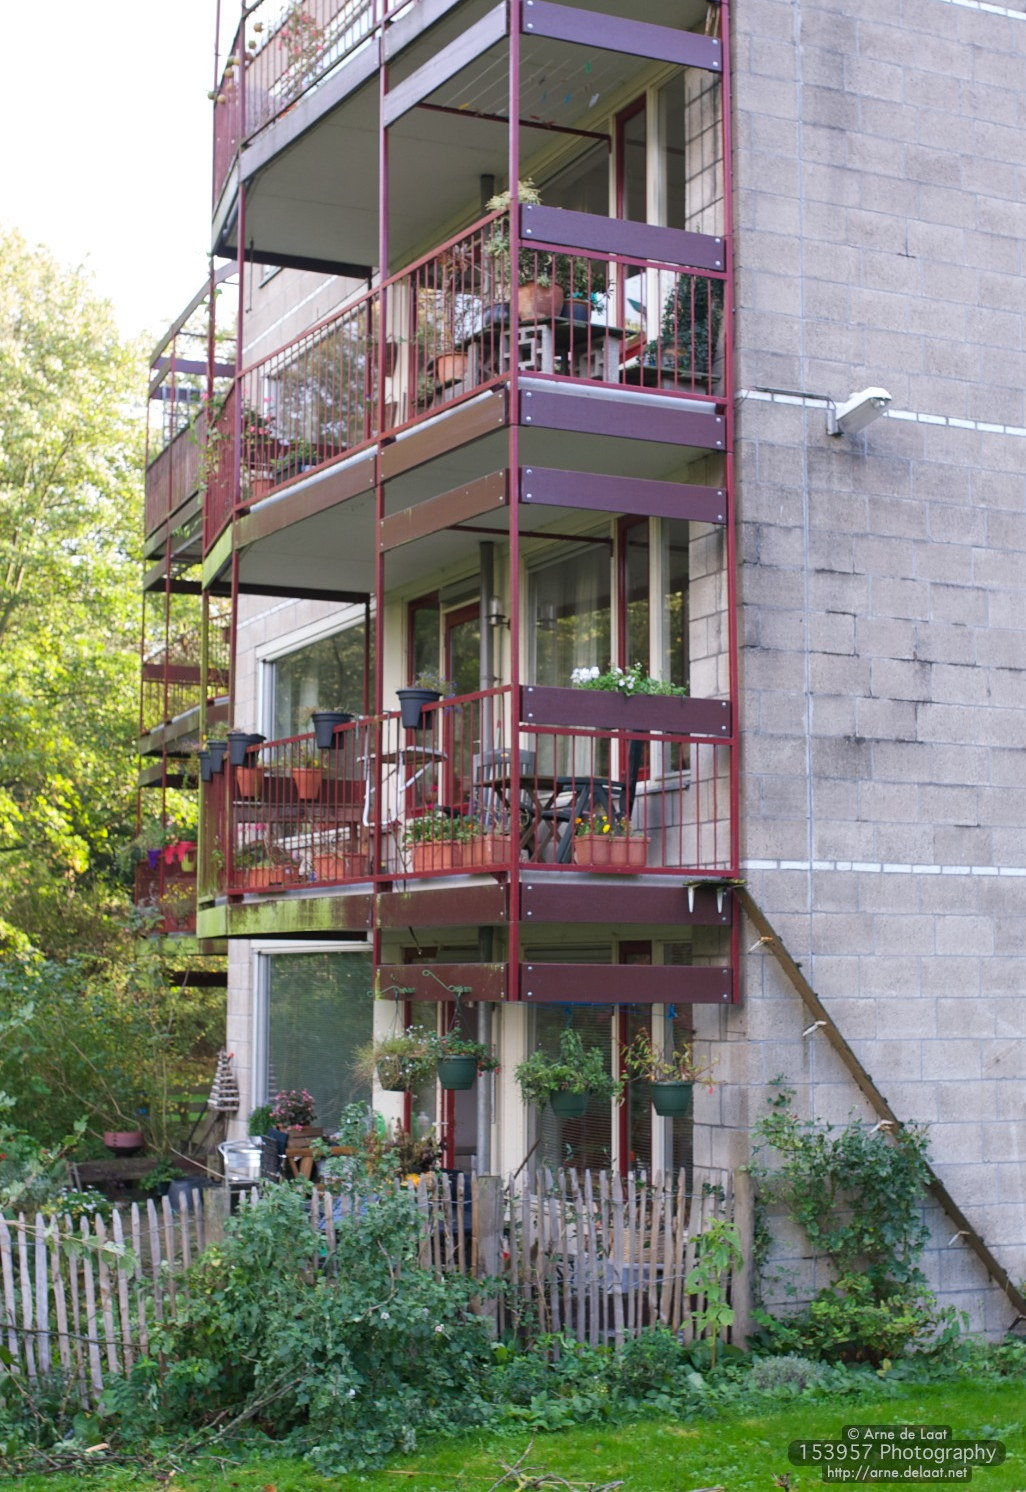
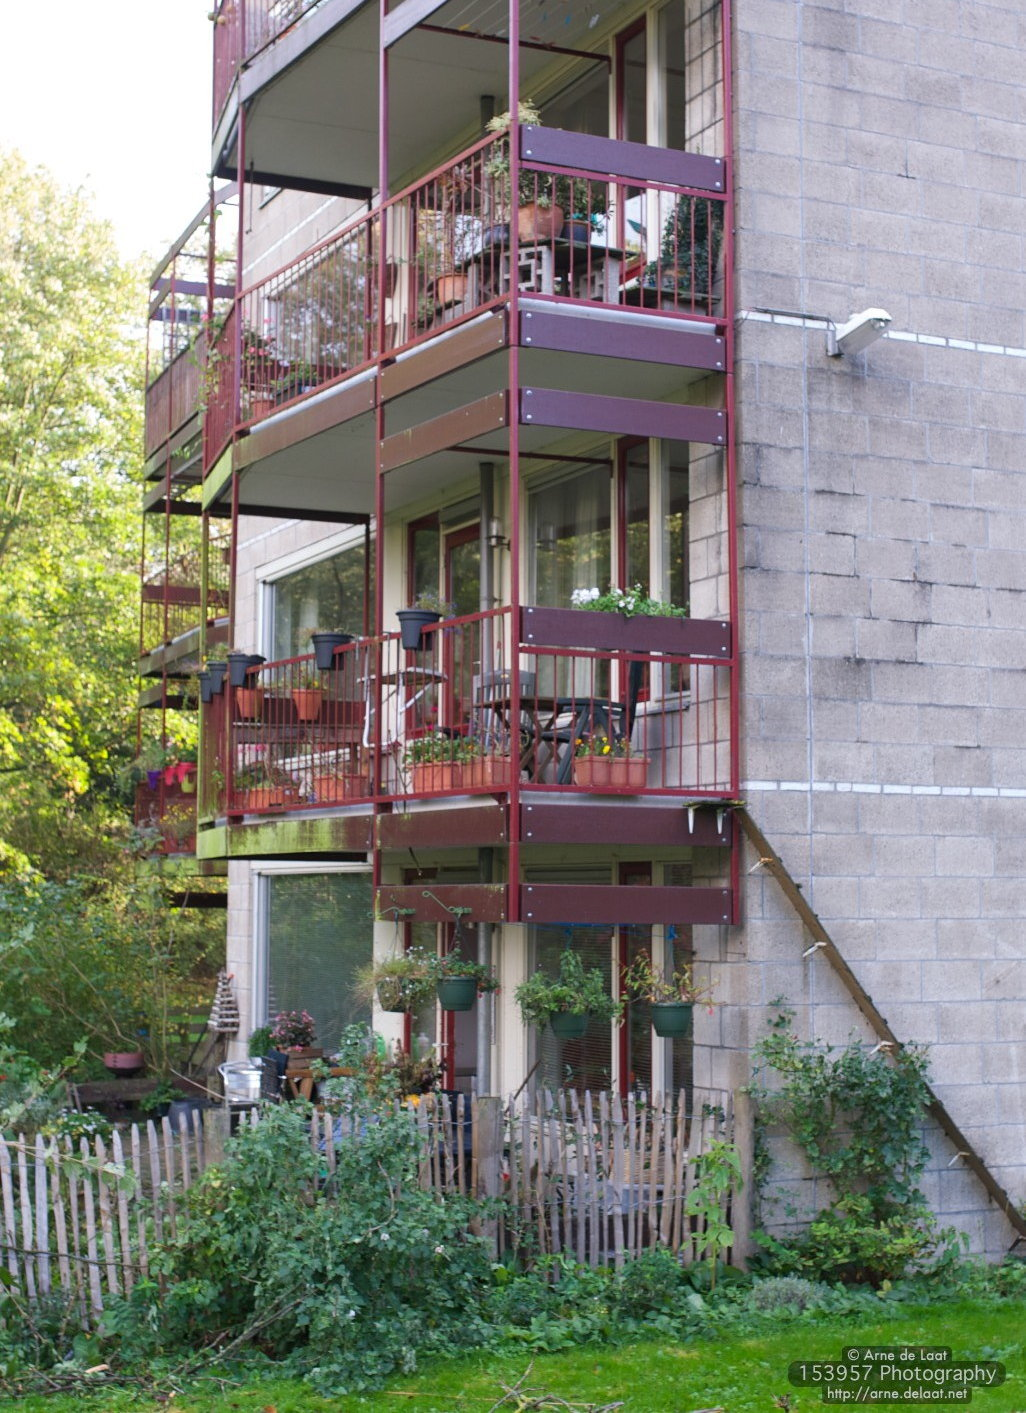
Add photos of the common room
Replace one of the outside photos
Crop one of the outside images to improve alignment

diff --git a/pages/fotos.html b/pages/fotos.html
@@ -8,8 +8,20 @@
 <div class="fotos">
     <img src="{% static '/static/images_fotos/buiten/ADL_143778.jpg' %}" alt="">
     <img src="{% static '/static/images_fotos/buiten/ARN_060977.jpg' %}" alt="">
-    <img src="{% static '/static/images_fotos/buiten/ARN_060981.jpg' %}" alt="">
+    <img src="{% static '/static/images_fotos/buiten/ADL_166871.jpg' %}" alt="">
     <img class="fullwidth" src="{% static '/static/images_fotos/buiten/ADL_165833.jpg' %}" alt="">
+</div>
+
+<span class="clear"></span>
+
+<h2>Gemeenschappelijke Hal</h2>
+
+<div class="fotos">
+    <img src="{% static '/static/images_fotos/gemeenschappelijk/ADL_166823.jpg' %}" alt="">
+    <img src="{% static '/static/images_fotos/gemeenschappelijk/ADL_166824.jpg' %}" alt="">
+    <img class="fullwidth" src="{% static '/static/images_fotos/gemeenschappelijk/ADL_166836.jpg' %}" alt="">
+    <img src="{% static '/static/images_fotos/gemeenschappelijk/ADL_166838.jpg' %}" alt="">
+    <img src="{% static '/static/images_fotos/gemeenschappelijk/ADL_166846.jpg' %}" alt="">
 </div>
 
 <span class="clear"></span>
